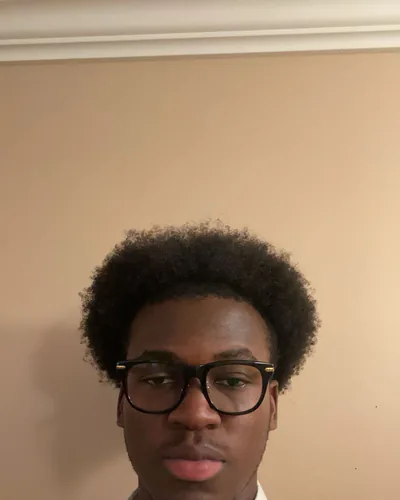
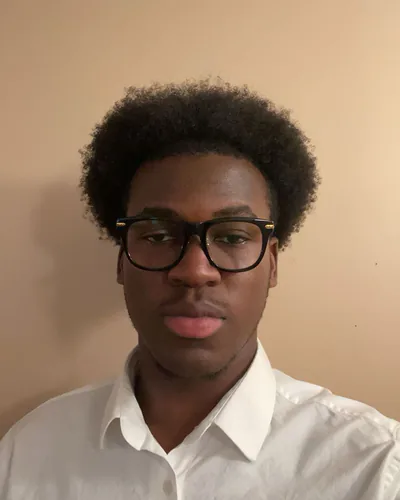
fix(media): crop the headshot to a head-and-shoulders frame
The 4:5 crop now starts at y 360 instead of 0; the old crop cut the
face at the chin. All DOM images and lobby textures are regenerated.

WP: WP-03
Claude-Session: https://claude.ai/code/session_016CcKJFMWCyXKspJx4YvMS7

diff --git a/scripts/build-media.ts b/scripts/build-media.ts
@@ -15,7 +15,7 @@ export const SOURCE = join(ROOT, 'assets-src', 'headshot.jpg');
 export const OUT_DIR = join(ROOT, 'public', 'images');
 
 /** 4:5 crop from the top of the 1008 x 1792 original, as the WP-03 brief pins it. */
-const CROP = { left: 0, top: 0, width: 1008, height: 1260 };
+const CROP = { left: 0, top: 360, width: 1008, height: 1260 };
 /** EXPERIENCE §2.3: the duotone maps luminance from shadows #16161A to highlights #F2EDE4. */
 const SHADOW = [0x16, 0x16, 0x1a] as const;
 const HIGHLIGHT = [0xf2, 0xed, 0xe4] as const;

diff --git a/docs/wp/WP-03.md b/docs/wp/WP-03.md
@@ -45,7 +45,7 @@ M0. Must be merged first: WP-02. Parallel with: WP-05. Feeds: WP-04, and every s
 - [ ] **Selectors** (append to `selectors.ts`, R1-owned now): `heroLines(c, now)`, `stopCards(c, now)` (view models with number, status pill `ON VIEW NOW` / `ONGOING` / none, artwork title, role, organization and location, `formatRange`, `duration` or omitted, medium tags, caption, CTA), and `threeDStrings(c)` (every exhibit number, organization label uppercase, door room names, "FOUNDATIONS", "COMMIT HISTORY", "You've reached the beginning.", year numerals) per ARCHITECTURE §3.7 and EXPERIENCE §5.4. `printModel` is WP-04's.
 - [ ] **`scripts/check-content.ts`** (first step of `npm run build`): `Resume.parse(resume)`, then `checkTemporal(content, buildDateFromEnv())`; print each error and exit 1 on any; print `content ok (<n> entries, build date <date>)` otherwise.
 - [ ] **`scripts/build-media.ts`** with sharp, from `assets-src/headshot.jpg` (1008 x 1792):
-  - 4:5 crop from the top: `extract({ left: 0, top: 0, width: 1008, height: 1260 })`.
+  - 4:5 crop from the top: `extract({ left: 0, top: 360, width: 1008, height: 1260 })` (R0 ruling 2026-10-15: `top: 0` cut the face at the chin).
   - DOM images at widths 400 and 800 in AVIF, WebP and JPEG: `public/images/headshot-400.avif`, `-400.webp`, `-400.jpg`, `-800.avif`, `-800.webp`, `-800.jpg`.
   - Texture: `public/images/headshot-texture-512.webp` (512 x 640) and a duotone version `public/images/headshot-texture-512-duotone.webp` (luminance mapped from `#16161A` to `#F2EDE4`, EXPERIENCE §2.3) for the lobby portrait's hover cross-fade.
   - Never call `withMetadata()`; sharp strips EXIF (including any GPS) by default. Deterministic encoder settings so re-runs produce identical bytes.
